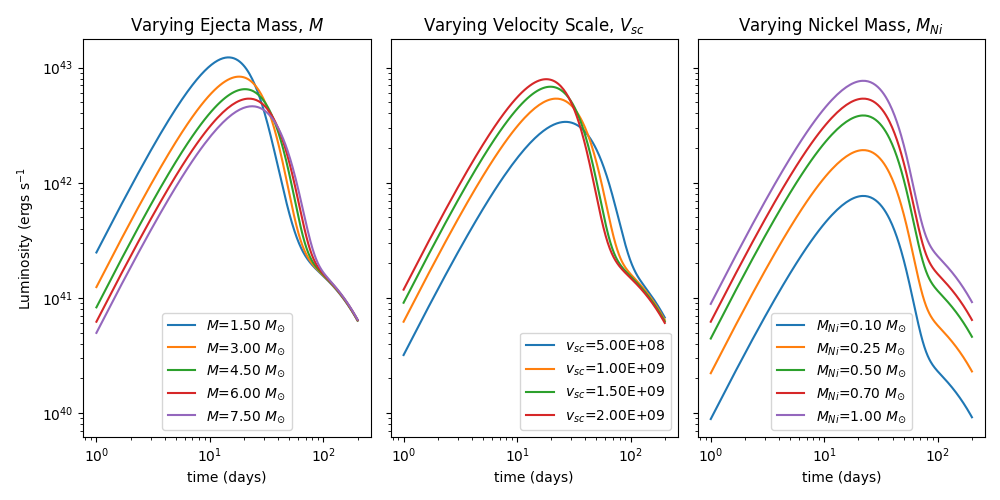
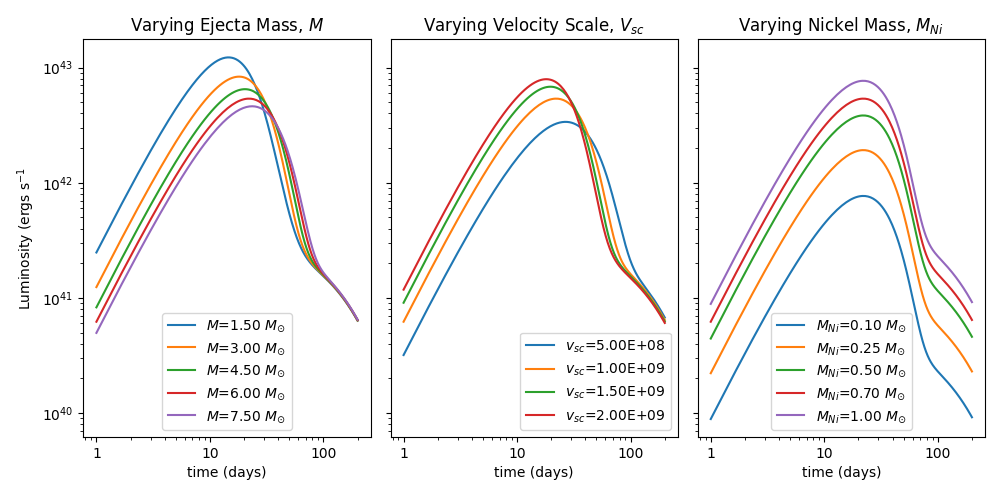
plot x axis tidier, demo plot scaling fixed, etc
-Made axis labels for "time (days)" display as regular numbers intead of 10^n.
-Fixed missing solar mass in some equations in the main.py plot generation that were throwing the scale off.
-Now saves demo.png.
-Stop making bad graph in test_fit.py.
-Adjusted fitting min/max bounds.

diff --git a/test_fit.py b/test_fit.py
@@ -4,6 +4,7 @@ from lmfit import Model, Parameters
 from collections import Iterable
 from numpy import loadtxt, log10, array
 from matplotlib import pyplot as plt
+from matplotlib.ticker import ScalarFormatter
 
 day2sec = 86400  # s          | seconds in a day
 m_sun = 1.989e33  # g         | solar mass in grams
@@ -20,9 +21,9 @@ def fit_me(times: Iterable, m, v_sc, m_ni, shift):
         results.append(log10(bolo_l(t, m, v_sc, m_ni, kappa=kappa_nagy)))
     return results
 
-
+data = "data/2006aj_nature.txt"
 data_skip = 1
-phase, log_lum, uncert = loadtxt("data/2006aj_nature.txt", unpack=True)
+phase, log_lum, uncert = loadtxt(data, unpack=True)
 
 time = array([(t + abs(phase[0]))*day2sec for t in phase])[data_skip:]
 log_lum = log_lum[data_skip:]
@@ -36,19 +37,19 @@ print('independent variables: {}'.format(lc_model.independent_vars))
 
 # params = lc_model.make_params(m=6 * m_sun, v_sc=1e9, m_ni=0.7 * m_sun, shift=500)
 params = Parameters()
-params.add(name="m", value=6*m_sun, min=0.75*m_sun, max=20*m_sun)
+params.add(name="m", value=6*m_sun, min=0.1*m_sun, max=20*m_sun)
 params.add(name="v_sc", value=5e9, min=1e8, max=20e9)
-params.add(name="m_ni", value=0.7*m_sun, min=0.1*m_sun, max=2*m_sun)
+params.add(name="m_ni", value=0.7*m_sun, min=0.001*m_sun, max=1*m_sun)
 params.add(name="shift", value=500, min=0, max=3*day2sec)
 
 
-test = lc_model.eval(params=params, times=time)
-plt.plot(time/day2sec, log_lum, label="Data")
-plt.plot(time/day2sec, test, label="Initial Parameters")
-plt.xlabel("time (days)")
-plt.ylabel(r"log$_{10}$ luminosity")
-plt.legend()
-plt.show()
+# test = lc_model.eval(params=params, times=time)
+# plt.plot(time/day2sec, log_lum, label="Data")
+# plt.plot(time/day2sec, test, label="Initial Parameters")
+# plt.xlabel("time (days)")
+# plt.ylabel(r"log$_{10}$ luminosity")
+# plt.legend()
+# plt.show()
 
 # Actually do a fit:
 print("Fitting....")
@@ -59,13 +60,18 @@ except Exception as e:
 else:
     print("Done!")
     print(result.fit_report())  # gives things like chi square
-    plt.semilogx(time/day2sec, log_lum, 'bo')
-    plt.plot(time/day2sec, result.init_fit, 'k--', label="initial fit")
-    plt.plot(time/day2sec, result.best_fit, 'r-', label="best fit")
-    plt.xlabel("time (days)")
-    plt.ylabel(r"log$_{10}$ luminosity")
-    plt.legend()
+    fig, ax = plt.subplots(1, 1)
+    ax.semilogx(time/day2sec, log_lum, 'bo', label=f"Data for {data.split('/')[1].split('.')[0].split('_')[0]}")
+    ax.plot(time/day2sec, result.init_fit, 'k--', label="Initial fit")
+    ax.plot(time/day2sec, result.best_fit, 'r-', label="Best fit")
+    ax.set_xlabel("time (days)")
+    ax.set_ylabel(r"log$_{10}$ luminosity")
+    ax.legend()
+    formatter = ScalarFormatter()
+    formatter.set_scientific(False)
+    ax.xaxis.set_major_formatter(formatter)
     plt.show()
 
 
 # todo: Do a finer plot with the fitted parameters (e.g. more and evenly-spaced timesteps:
+

diff --git a/parameter_behaviour_tests.py b/parameter_behaviour_tests.py
@@ -2,20 +2,18 @@ from arnett_small_R import bolo_l
 from nagy.nagy import kappa_nagy
 from matplotlib import pyplot as plt
 import numpy as np
-
+from matplotlib.ticker import ScalarFormatter
 
 day2sec = 86400  # s          | seconds in a day
 m_sun = 1.989e33  # g         | solar mass in grams
 
-
 # test values:
 m_default = 6 * m_sun
-m_array = [1.5*m_sun, 3*m_sun, 4.5*m_sun, 6*m_sun, 7.5*m_sun]
+m_array = [1.5 * m_sun, 3 * m_sun, 4.5 * m_sun, 6 * m_sun, 7.5 * m_sun]
 v_sc_default = 1e9
 v_sc_array = [0.5e9, 1e9, 1.5e9, 2e9]
 m_ni_default = 0.7 * m_sun
-m_ni_array = [0.1*m_sun, 0.25*m_sun, 0.5*m_sun, 0.7*m_sun, 1*m_sun]
-
+m_ni_array = [0.1 * m_sun, 0.25 * m_sun, 0.5 * m_sun, 0.7 * m_sun, 1 * m_sun]
 
 skip_days = 1  # Days to skip at start. (shock breakout makes it inacurate)
 end_day = 200  # day on which to end simulation
@@ -43,7 +41,9 @@ for m_ni in m_ni_array:
         res.append(bolo_l(t, m_default, v_sc_default, m_ni, kappa=kappa_nagy))
     m_ni_results[str(m_ni)] = res
 
+
 # prepare figures/axes
+
 fig, (ax0, ax1, ax2) = plt.subplots(ncols=3, sharey="all")
 fig.set_size_inches(10, 5)
 ax1.set_xticklabels([])
@@ -51,7 +51,7 @@ ax2.set_xticklabels([])
 
 # plot m
 for key in m_results.keys():
-    ax0.loglog(np.array(times) / day2sec, m_results[key], label=fr"$M$={float(key)/m_sun:.2f} $M_{{\odot}}$")
+    ax0.loglog(np.array(times) / day2sec, m_results[key], label=fr"$M$={float(key) / m_sun:.2f} $M_{{\odot}}$")
     ax0.set_ylabel(r"Luminosity (ergs s$^{-1}$")
     ax0.set_xlabel("time (days)")
     ax0.set_title(r"Varying Ejecta Mass, $M$")
@@ -67,12 +67,19 @@ for key in v_sc_results.keys():
 
 # plot m_ni
 for key in m_ni_results.keys():
-    ax2.loglog(np.array(times) / day2sec, m_ni_results[key], label=fr"$M_{{Ni}}$={float(key)/m_sun:.2f} $M_{{\odot}}$")
+    ax2.loglog(np.array(times) / day2sec, m_ni_results[key],
+               label=fr"$M_{{Ni}}$={float(key) / m_sun:.2f} $M_{{\odot}}$")
     # ax[2].set_ylabel(r"Luminosity (ergs s$^{-1}$")
     ax2.set_xlabel("time (days)")
     ax2.set_title(r"Varying Nickel Mass, $M_{Ni}$")
     ax2.legend()
 
 plt.tight_layout()
+for axis in [ax0.xaxis, ax1.xaxis, ax2.xaxis, ]:
+    formatter = ScalarFormatter()
+    formatter.set_scientific(False)
+    axis.set_major_formatter(formatter)
+# for axis in [ax0.xaxis, ax0.yaxis, ax1.xaxis, ax1.yaxis, ax2.xaxis, ax2.yaxis,]:
+
 plt.savefig("Parameter_behaviour.png")
 plt.show()

diff --git a/main.py b/main.py
@@ -2,6 +2,8 @@ from arnett_small_R import l_ni, l_co, bolo_l, kappa_const
 import numpy as np
 from nagy import nagy
 from matplotlib import pyplot as plt
+import numpy as np
+from matplotlib.ticker import ScalarFormatter
 
 # constants
 tau_ni = 7.605e5  # s | nickel-56 decay time
@@ -39,7 +41,7 @@ for t in times:
     lni_res.append(out[1])
     lco_res.append(l_co(t, m=m, v_sc=v_sc))
 for t in times:
-    lum_res.append(bolo_l(t, m=m, v_sc=v_sc, m_ni=0.7))
+    lum_res.append(bolo_l(t, m=m, v_sc=v_sc, m_ni=m_ni))
 
 # variable kappa
 lni_res_var = []
@@ -53,12 +55,12 @@ for t in times:
     lni_res_var.append(out[1])
     lco_res_var.append(l_co(t, m=m, v_sc=v_sc, kappa=nagy.kappa_nagy))
 for t in times:
-    lum_res_var.append(bolo_l(t, m=m, v_sc=v_sc, m_ni=0.7, kappa=nagy.kappa_nagy))
+    lum_res_var.append(bolo_l(t, m=m, v_sc=v_sc, m_ni=m_ni, kappa=nagy.kappa_nagy))
 
 # plotting
 print(f"Using test values of m=1.45*m_sun g, v_sc=1.2e9 cm/s ")
 fig, ax = plt.subplots(1, 2)
-fig.set_size_inches(12, 6.4)
+fig.set_size_inches(10, 5.4)
 
 ax[0].loglog(times / day2sec, lni_res, label=fr"$\Lambda_{{ni}}$ Constant kappa ($\kappa = {kappa_const(0)}$)")
 ax[0].loglog(times / day2sec, lni_res_var, label=r"$\Lambda_{{ni}}$ Variable kappa")
@@ -76,4 +78,11 @@ ax[1].set_ylabel(r"Luminosity (ergs s$^{-1}$)")
 
 ax[1].legend()
 
+for axis in [ax[0].xaxis, ax[1].xaxis,]:
+    formatter = ScalarFormatter()
+    formatter.set_scientific(False)
+    axis.set_major_formatter(formatter)
+
+plt.tight_layout()
+plt.savefig("demo.png")
 plt.show()
